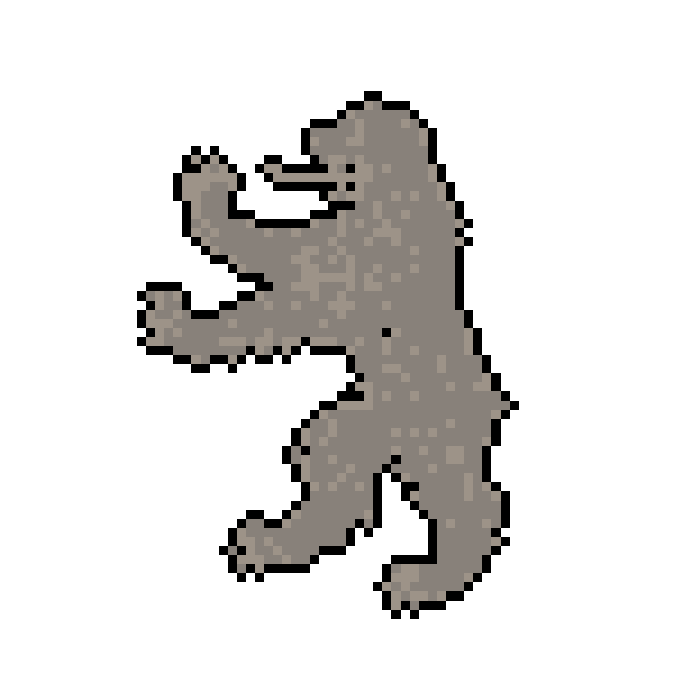
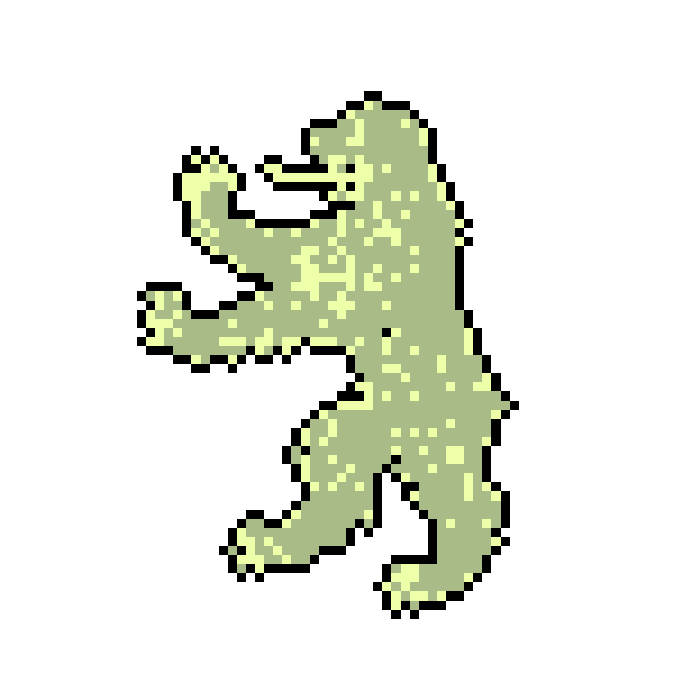
glitch

Changed region(s): [[0.21, 0.12, 0.75, 0.87]]

diff --git a/index.md b/index.md
@@ -1,14 +1,50 @@
+<link href="https://fonts.googleapis.com/css2?family=UnifrakturCook:wght@700" rel="stylesheet">
+<link href="https://fonts.googleapis.com/css2?family=Rubik+Glitch" rel="stylesheet">
+<link href="https://fonts.googleapis.com/css2?family=Pixelify+Sans" rel="stylesheet">
+
+
+<style>
+  body { 
+    background-color:#212121;
+    font-size: 40px;
+    color:#edffa8;
+    font-family: UnifrakturCook;
+  }
+
+  a {
+    color: #edffa8;
+  }
+
+  .glitch {
+    font-family: Rubik Glitch;
+  }
+
+  .fraktur {
+    font-family: UnifrakturCook;
+  }
+</style>
+
 <center>
+
+  <br> 
+  <div class="glitch"> L1F3 15 F13RY W17H 17S 834U7Y</div>
+  <br>
+  <img src="8bit_glitch.png" width="300" height="300">
+  <br>
  
-  <b></b>
-  <br>
-  <img src="BEAR.png" width="300" height="300">
-  <br><br>
-  LIFE IS FIERY WITH ITS BEAUTY
   <hr>
-  <a href="source/l1n3z.html">lines</a>
+  <div>
+  <a href="source/l1n3z.html">lines &#9998; linhas</a>
   <br>
-  <a href="source/7un3z.html">tunes</a>
+  <a href="source/7un3z.html">tunes &#9834; tons</a>
   <br>
-  
+  <a href="source/7h0ugh7z.html">thoughts &#9967; pensamentos</a>
+  <br>
+  </div>
+
+  <hr>
+
+  <div class="fraktur">b34r</div>  
+  <img src="BEAR.png" width="150" height="150">
+
 </center>

diff --git a/source/7h0ugh7z.md b/source/7h0ugh7z.md
@@ -1,0 +1,7 @@
+<center>
+
+  <b> 7h0ugh7z </b>
+
+  <a href="../index.html">home</a>
+
+</center>
